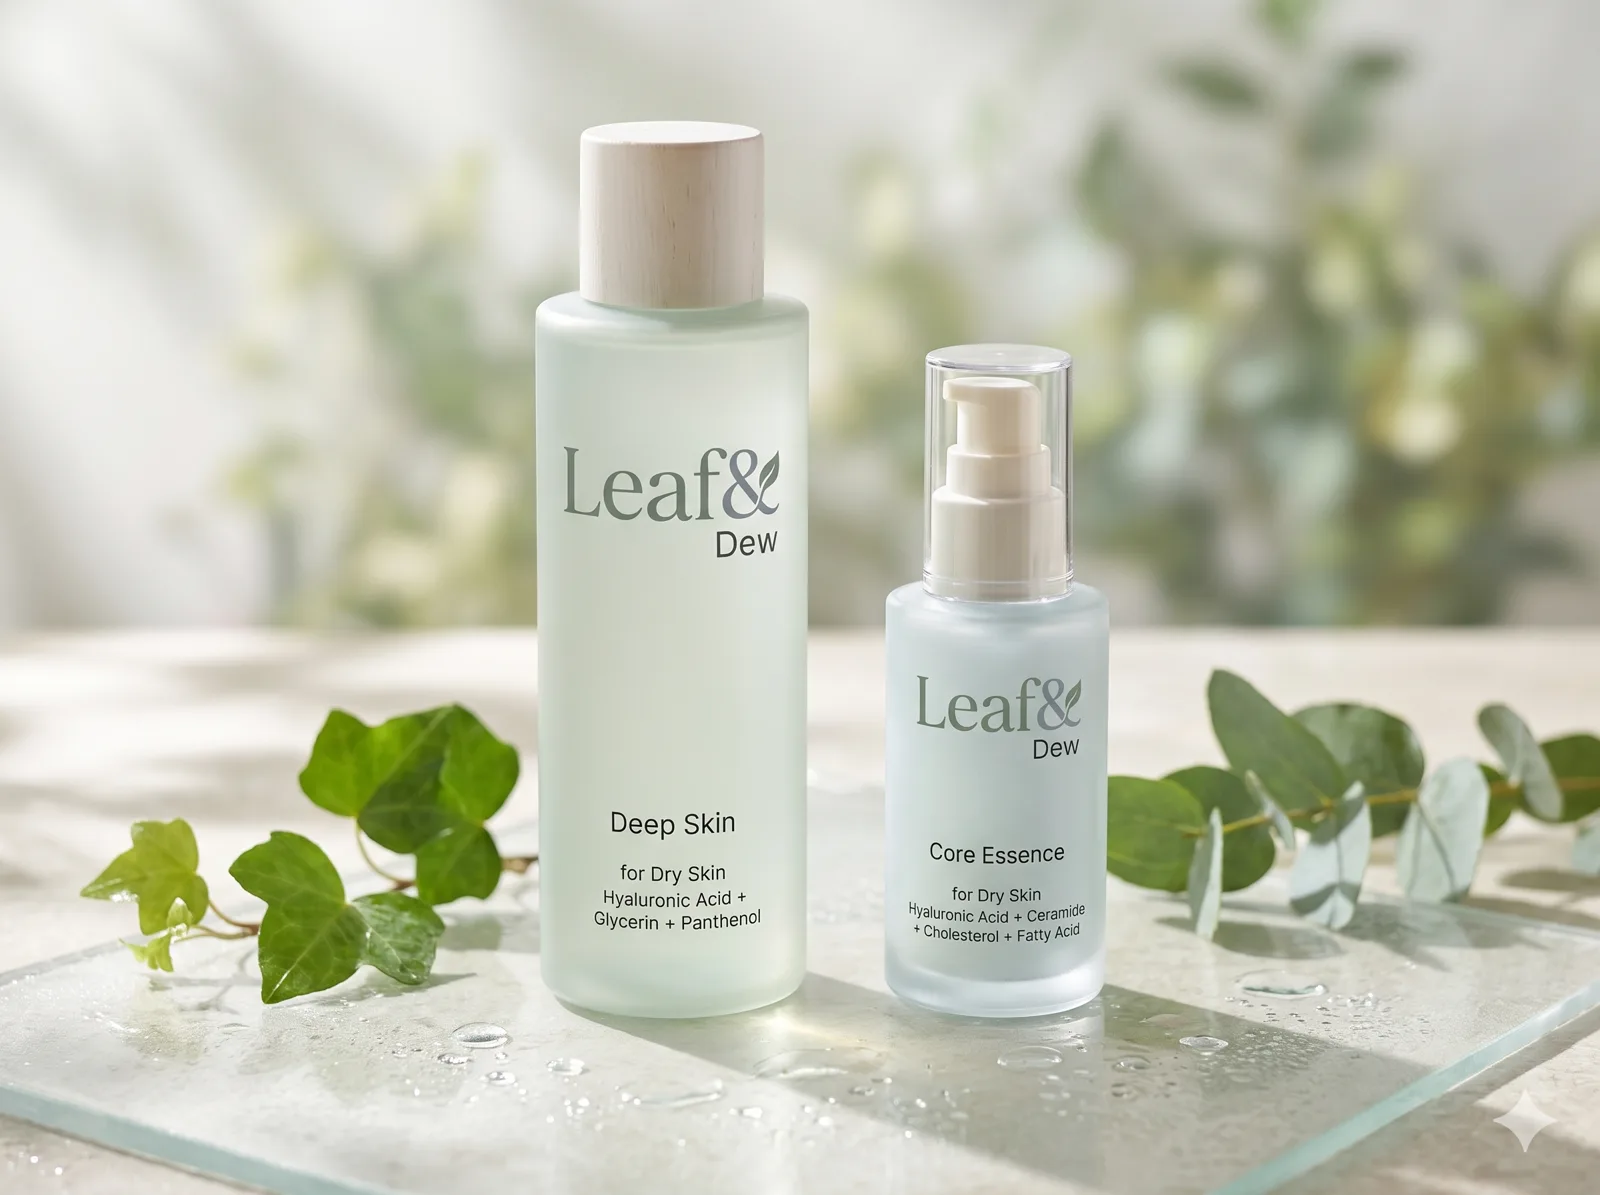
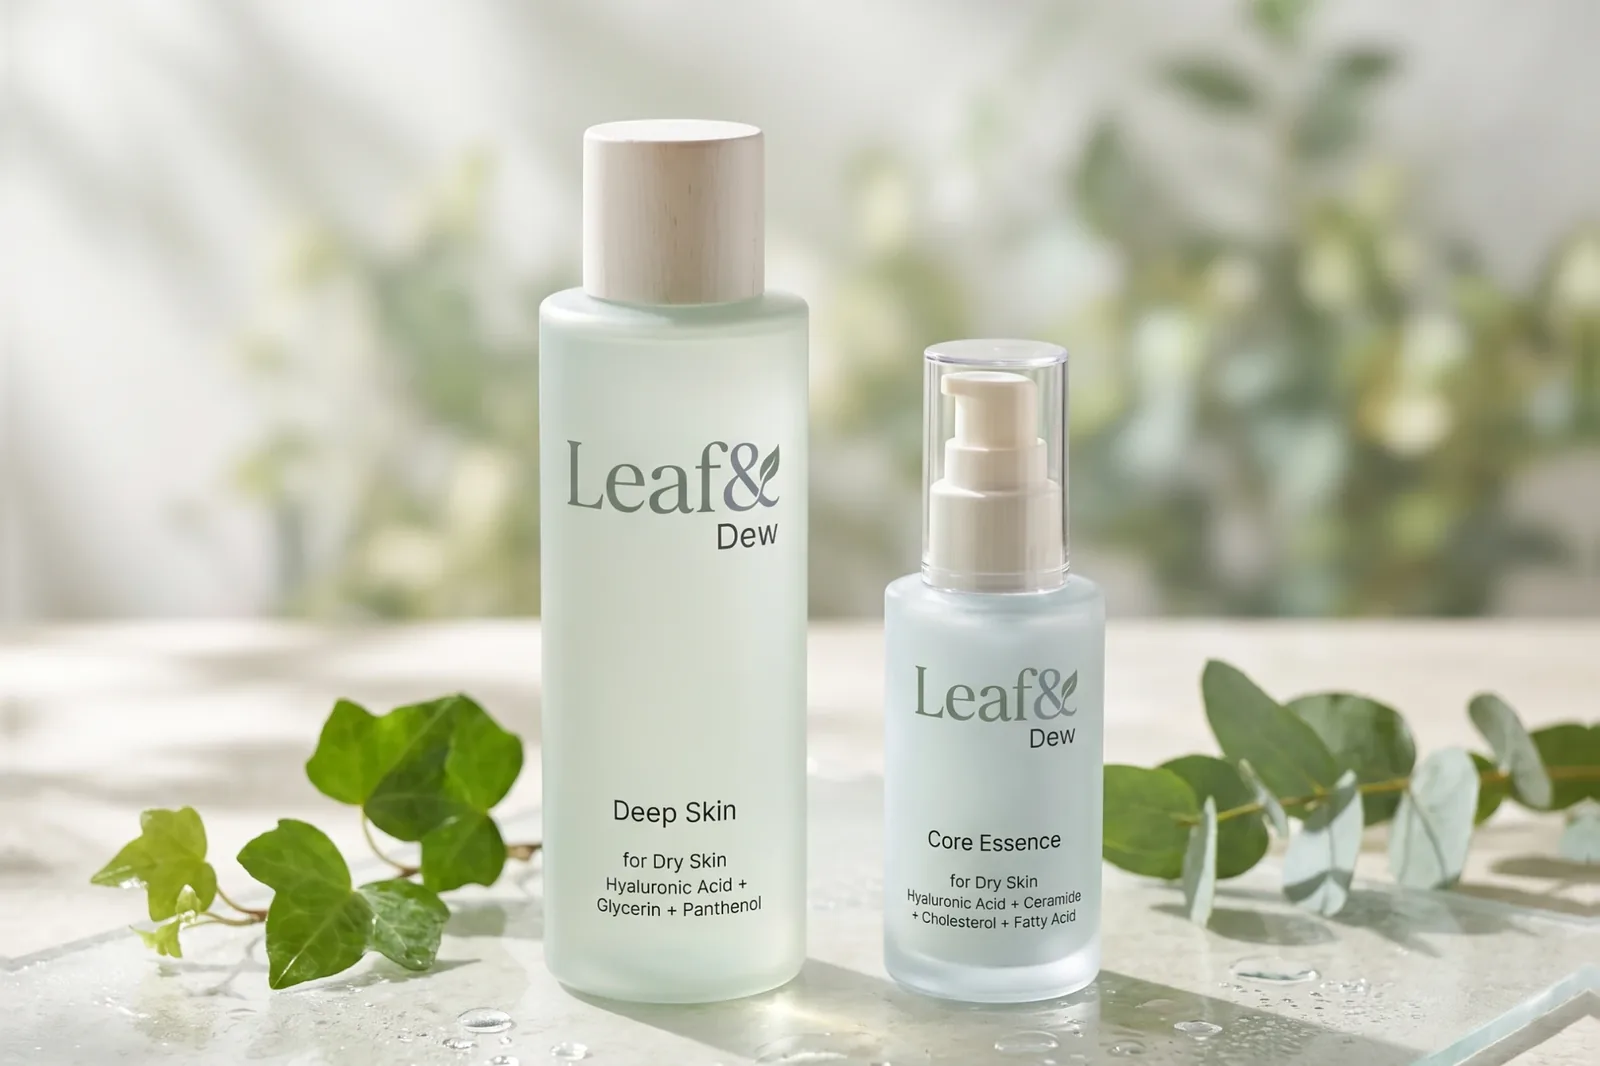
feat(survey): 「購入する」에서 여는 Qoo10 상세페이지 (Deep Skin · Core Essence)
- /survey/shop/[productId]: Qoo10 상품 페이지 모양 (대표 이미지 · 가격 · 수량 · 카트/구매 버튼 · 상세 · 상품정보)
- 상세 본문은 콘텐츠 제작 보고서의 12장 흐름을 따름. 02 사회적 증거는 근거가 없어 넣지 않음
- 문구는 약기법 기준 자료로 대조: 保湿成分 표기, 판테놀 제외, 「角質層まで※」 주석, 리뷰는 사용감만
- 결과 화면 「購入する」 → 해당 제품 상세페이지로 이동
- 건성 세트 사진을 생성 도구 표시 없는 새 사진으로 교체 (같은 파일 이름)

Claude-Session: https://claude.ai/code/session_01EXofnZZmWQuEaLm9fkZ5Ts

diff --git a/apps/web/app/(public)/survey/shop/[productId]/page.tsx b/apps/web/app/(public)/survey/shop/[productId]/page.tsx
@@ -1,0 +1,202 @@
+import { CalendarCheck, Droplets, Hand, Wind } from "lucide-react";
+import Image from "next/image";
+import Link from "next/link";
+import { notFound } from "next/navigation";
+import { getProducts } from "@/lib/data";
+import { ownProductName } from "@/lib/own-products";
+import { CAUTION, SHOP_CONTENT, SHOP_PRODUCT_IDS, type ShopProductId } from "../content";
+import { BuyBox, Gallery } from "./shop-parts";
+
+// Qoo10 상세페이지 모양 (설문 결과 「購入する」 → 여기). 실제 구매 · 결제는 하지 않는다
+const COPY = {
+  back: "← 診断結果に戻る",
+  shop: "Leaf& 公式ショップ",
+  tabs: { detail: "商品詳細", info: "商品情報" },
+  routineTitle: "洗顔後の2ステップで、うるおいケア",
+  ingredientNote: "※保湿成分",
+  pointNote: "※浸透：角質層まで",
+  reviewTitle: "国内でご愛用いただいている方の声",
+  lineupTitle: "ラインナップ",
+  infoTitle: "商品情報",
+  infoNote: "内容量・全成分・使用上の注意・製造販売元は商品情報欄をご確認ください。",
+  imageNote: "※画像はイメージです",
+  info: { volume: "内容量", kind: "種類", ingredients: "全成分", caution: "使用上の注意", maker: "製造販売元", origin: "原産国" },
+};
+
+const ICONS = { droplets: Droplets, wind: Wind, calendar: CalendarCheck, hand: Hand };
+
+export function generateStaticParams() {
+  return SHOP_PRODUCT_IDS.map((productId) => ({ productId }));
+}
+
+function isShopProduct(id: string): id is ShopProductId {
+  return (SHOP_PRODUCT_IDS as readonly string[]).includes(id);
+}
+
+export default async function ShopProductPage({ params }: { params: Promise<{ productId: string }> }) {
+  const { productId } = await params;
+  if (!isShopProduct(productId)) notFound();
+  const content = SHOP_CONTENT[productId];
+  const name = ownProductName(productId);
+  const product = (await getProducts({ kind: "own" })).find((p) => p.name === name);
+  if (!product || product.price_jpy === null) notFound();
+
+  return (
+    <div className="-mx-5 -my-8 bg-white text-neutral-900">
+      <header className="flex items-center gap-3 bg-[#e8323c] px-4 py-2.5 text-white">
+        <span className="text-xl font-extrabold tracking-tight">Qoo10</span>
+        <span className="truncate rounded bg-white/90 px-3 py-1 text-xs text-neutral-500 sm:w-80">韓国 化粧水</span>
+      </header>
+
+      <div className="mx-auto max-w-5xl px-4 py-4">
+        <Link href="/survey/result" className="text-sm text-neutral-500 underline-offset-4 hover:underline">
+          {COPY.back}
+        </Link>
+
+        <section className="mt-3 grid gap-6 md:grid-cols-2">
+          <Gallery images={content.gallery} />
+          <div className="space-y-4">
+            <p className="text-sm text-[#e8323c]">{COPY.shop}</p>
+            <h1 className="text-lg font-semibold leading-snug">
+              {content.title} {product.volume_ml}mL
+            </h1>
+            <BuyBox price={product.price_jpy} />
+          </div>
+        </section>
+
+        <nav className="sticky top-0 z-10 mt-8 flex border-b bg-white text-sm">
+          <a href="#detail" className="flex-1 border-b-2 border-[#e8323c] py-3 text-center font-semibold">
+            {COPY.tabs.detail}
+          </a>
+          <a href="#info" className="flex-1 py-3 text-center text-neutral-500">
+            {COPY.tabs.info}
+          </a>
+        </nav>
+
+        {/* 상세페이지 본문: 폭 860px (콘텐츠 제작 보고서 촬영 가이드) */}
+        <article id="detail" className="mx-auto max-w-[860px] divide-y">
+          <Image src={content.hook.src} alt={content.hook.alt} width={1200} height={895} className="h-auto w-full" />
+
+          <section className="bg-neutral-50 px-6 py-14 text-center">
+            {content.worry.map((line) => (
+              <p key={line} className="text-xl font-semibold leading-relaxed md:text-2xl">
+                {line}
+              </p>
+            ))}
+          </section>
+
+          <section className="px-6 py-14 text-center">
+            <p className="text-xl font-semibold">{COPY.routineTitle}</p>
+            <div className="mt-6 flex items-center justify-center gap-3 text-sm md:gap-6">
+              {(["deep-skin", "core-essence"] as const).map((id, i) => (
+                <div key={id} className="flex items-center gap-3 md:gap-6">
+                  {i > 0 && <span className="text-2xl text-neutral-400">→</span>}
+                  <div className={`rounded-xl border px-4 py-5 ${id === productId ? "border-[#e8323c]" : ""}`}>
+                    <p className="text-xs font-bold text-[#e8323c]">STEP{i + 1}</p>
+                    <p className="mt-1 font-semibold">{ownProductName(id)}</p>
+                    <p className="text-xs text-neutral-500">{SHOP_CONTENT[id].kind}</p>
+                  </div>
+                </div>
+              ))}
+            </div>
+          </section>
+
+          <section className="pb-10">
+            <Image src={content.gallery[0].src} alt={content.gallery[0].alt} width={1600} height={1066} className="h-auto w-full" />
+            <p className="mt-6 text-center text-2xl font-semibold">{name}</p>
+          </section>
+
+          <section className="bg-[#eef5f0] px-6 py-14">
+            <ol className="grid gap-6 sm:grid-cols-3">
+              {content.points.map((p, i) => {
+                const Icon = ICONS[p.icon];
+                return (
+                  <li key={p.text} className="flex flex-col items-center gap-3 text-center">
+                    <span className="flex size-20 items-center justify-center rounded-full bg-white shadow-sm">
+                      <Icon className="size-9 text-[#4f7d63]" aria-hidden />
+                    </span>
+                    <span className="text-xs font-bold text-[#4f7d63]">POINT {i + 1}</span>
+                    <span className="font-semibold">{p.text}</span>
+                  </li>
+                );
+              })}
+            </ol>
+            <p className="mt-6 text-center text-xs text-neutral-500">{COPY.pointNote}</p>
+          </section>
+
+          <section className="px-6 py-14">
+            <ul className="grid grid-cols-2 gap-3">
+              {content.ingredients.map((ing) => (
+                <li key={ing} className="flex aspect-[2/1] items-center justify-center rounded-xl bg-[#f4f8fb] text-lg font-semibold">
+                  {ing}※
+                </li>
+              ))}
+            </ul>
+            <p className="mt-3 text-right text-xs text-neutral-500">{COPY.ingredientNote}</p>
+          </section>
+
+          <section className="bg-gradient-to-b from-[#e6f1f6] to-white px-6 py-16 text-center">
+            {content.texture.map((line) => (
+              <p key={line} className="text-xl font-semibold leading-relaxed md:text-2xl">
+                {line}
+              </p>
+            ))}
+          </section>
+
+          <section className="px-6 py-14 text-center">
+            <p className="text-lg leading-relaxed">{content.howTo}</p>
+          </section>
+
+          <section className="bg-neutral-50 px-6 py-14">
+            <p className="mb-6 text-center text-sm text-neutral-500">{COPY.reviewTitle}</p>
+            <ul className="space-y-4">
+              {content.reviews.map((r, i) => (
+                <li key={r} className={`flex ${i % 2 ? "justify-end" : ""}`}>
+                  <span className="rounded-2xl bg-white px-5 py-3 shadow-sm">「{r}」</span>
+                </li>
+              ))}
+            </ul>
+          </section>
+
+          <section className="px-6 py-14">
+            <p className="mb-6 text-center text-lg font-semibold">{COPY.lineupTitle}</p>
+            <ul className="grid grid-cols-2 gap-4">
+              {(["deep-skin", "core-essence"] as const).map((id) => (
+                <li key={id}>
+                  <Link
+                    href={`/survey/shop/${id}`}
+                    className={`block rounded-xl border p-4 text-center hover:bg-neutral-50 ${id === productId ? "border-[#e8323c]" : ""}`}
+                  >
+                    <p className="font-semibold">{ownProductName(id)}</p>
+                    <p className="text-sm text-neutral-500">（{SHOP_CONTENT[id].kind}）</p>
+                  </Link>
+                </li>
+              ))}
+            </ul>
+            <p className="mt-8 text-center text-sm text-neutral-500">{COPY.infoNote}</p>
+          </section>
+        </article>
+
+        <section id="info" className="mx-auto mt-10 max-w-[860px] scroll-mt-14">
+          <h2 className="mb-3 font-semibold">{COPY.infoTitle}</h2>
+          <dl className="divide-y border-y text-sm">
+            {[
+              [COPY.info.volume, `${product.volume_ml}mL`],
+              [COPY.info.kind, content.kind],
+              [COPY.info.ingredients, content.fullIngredients],
+              [COPY.info.caution, CAUTION],
+              [COPY.info.maker, "Leaf&"],
+              [COPY.info.origin, "韓国"],
+            ].map(([k, v]) => (
+              <div key={k} className="grid grid-cols-[7rem_1fr] gap-3 py-3">
+                <dt className="text-neutral-500">{k}</dt>
+                <dd className="leading-relaxed">{v}</dd>
+              </div>
+            ))}
+          </dl>
+          <p className="mt-4 text-xs text-neutral-500">{COPY.imageNote}</p>
+        </section>
+      </div>
+    </div>
+  );
+}

diff --git a/apps/web/app/(public)/survey/shop/content.ts b/apps/web/app/(public)/survey/shop/content.ts
@@ -1,0 +1,80 @@
+import { ownProductImage, ownProductName, type OwnProductId } from "@/lib/own-products";
+
+// Qoo10 상세페이지(설문 결과의 「購入する」로 들어옴). 판매 중인 건성 라인 2종만 있다.
+// 구성은 콘텐츠 제작 보고서(상세페이지 12장)를 따르고, 문구는 약기법 기준 자료(knowledge/yakkiho)와 대조했다.
+//  - 02 사회적 증거(순위 · 수상 · 후기 수)는 근거 자료가 없어 넣지 않는다 (F8.2, E22)
+//  - 성분은 배합 목적(保湿成分)을 붙이고 판테놀은 뺀다 (E24, 팀 결정 2026-10-23)
+//  - 「角質層まで」는 침투 범위를 각질층으로 밝힌 표현만 쓴다 (E3)
+//  - 리뷰 말풍선은 사용감 표현만 (E20). 실제 판매 때는 실제 리뷰로 바꿔야 한다
+// 가격 · 용량은 다른 탭과 같게 lib/mock/products.ts 값을 쓰고, 전성분은 팀 CSV(가상 목록)에서 판테놀을 뺀 것이다
+
+export const SHOP_PRODUCT_IDS = ["deep-skin", "core-essence"] as const satisfies readonly OwnProductId[];
+export type ShopProductId = (typeof SHOP_PRODUCT_IDS)[number];
+
+export type ShopContent = {
+  kind: string;
+  /** Qoo10 상품명 줄 */
+  title: string;
+  gallery: { src: string; alt: string }[];
+  hook: { src: string; alt: string };
+  worry: string[];
+  points: { text: string; icon: "droplets" | "wind" | "calendar" | "hand" }[];
+  ingredients: string[];
+  texture: string[];
+  howTo: string;
+  reviews: string[];
+  fullIngredients: string;
+};
+
+const DRY_POSTER = {
+  src: "/products/posters/leaf-dew-dry-poster.webp",
+  alt: "乾燥しがちな肌に、たっぷりのうるおいを。化粧水とエッセンスで、肌の乾燥を防ぐ毎日のケア。",
+};
+
+export const SHOP_CONTENT: Record<ShopProductId, ShopContent> = {
+  "deep-skin": {
+    kind: "化粧水",
+    title: `${ownProductName("deep-skin")} 化粧水 保湿成分ヒアルロン酸Na配合`,
+    gallery: [
+      { src: ownProductImage("deep-skin"), alt: `${ownProductName("deep-skin")}と${ownProductName("core-essence")}` },
+      DRY_POSTER,
+    ],
+    hook: DRY_POSTER,
+    worry: ["洗顔後、すぐにつっぱる。", "乾燥が気になる季節、こんなお悩みありませんか？"],
+    points: [
+      { text: "角質層まで※うるおう", icon: "droplets" },
+      { text: "べたつかない", icon: "wind" },
+      { text: "毎日使いやすい", icon: "calendar" },
+    ],
+    ingredients: ["ヒアルロン酸Na", "グリセリン"],
+    texture: ["さっぱり、すーっとなじむ。", "べたつかないのに、しっとり。"],
+    howTo: "洗顔後、適量を手に取り顔全体になじませてください。",
+    reviews: ["しっとりするのにべたつかない", "香りが控えめで毎日使いやすい", "メイク前にもなじみやすい"],
+    fullIngredients:
+      "水、BG、グリセリン、プロパンジオール、ヒアルロン酸Na、ベタイン、アラントイン、ヒドロキシエチルセルロース、クエン酸、クエン酸Na、EDTA-2Na、エチルヘキシルグリセリン、フェノキシエタノール",
+  },
+  "core-essence": {
+    kind: "美容液",
+    title: `${ownProductName("core-essence")} 美容液 保湿成分セラミドNP配合`,
+    gallery: [
+      { src: ownProductImage("core-essence"), alt: `${ownProductName("deep-skin")}と${ownProductName("core-essence")}` },
+      DRY_POSTER,
+    ],
+    hook: DRY_POSTER,
+    worry: ["化粧水だけでは、乾燥が気になる。", "うるおいを守るひと手間、足りていますか？"],
+    points: [
+      { text: "角質層まで※うるおう", icon: "droplets" },
+      { text: "なめらかになじむ", icon: "hand" },
+      { text: "化粧水のあとに1プッシュ", icon: "calendar" },
+    ],
+    ingredients: ["ヒアルロン酸Na", "セラミドNP", "コレステロール", "ステアリン酸"],
+    texture: ["みずみずしいのに、しっとり。", "肌になめらかになじむ。"],
+    howTo: "化粧水のあと、1〜2プッシュを手に取り顔全体になじませてください。",
+    reviews: ["しっとりするのに重くない", "化粧水のあとに使いやすい", "ポンプで出しやすい"],
+    fullIngredients:
+      "水、BG、グリセリン、プロパンジオール、スクワラン、トリ（カプリル酸／カプリン酸）グリセリル、ヒアルロン酸Na、セラミドNP、コレステロール、ステアリン酸、水添レシチン、カルボマー、アルギニン、EDTA-2Na、エチルヘキシルグリセリン、フェノキシエタノール",
+  },
+};
+
+export const CAUTION =
+  "お肌に異常が生じていないかよく注意して使用してください。使用中または使用後に赤み、はれ、かゆみ、刺激等の異常があらわれた場合は使用を中止し、皮膚科専門医等にご相談ください。";

diff --git a/apps/web/app/(public)/survey/shop/[productId]/shop-parts.tsx b/apps/web/app/(public)/survey/shop/[productId]/shop-parts.tsx
@@ -1,0 +1,72 @@
+"use client";
+
+import Image from "next/image";
+import { useState } from "react";
+import { Button } from "@/components/ui/button";
+import { cn } from "@/lib/utils";
+
+const COPY = {
+  taxIn: "（税込）",
+  quantity: "数量",
+  decrease: "数量を減らす",
+  increase: "数量を増やす",
+  cart: "カートに入れる",
+  buyNow: "今すぐ購入",
+};
+
+/** 대표 이미지: 큰 사진 1장 + 아래 썸네일 (정사각형) */
+export function Gallery({ images }: { images: { src: string; alt: string }[] }) {
+  const [index, setIndex] = useState(0);
+  const current = images[index];
+  return (
+    <div className="space-y-2">
+      <div className="relative aspect-square overflow-hidden rounded-lg border bg-white">
+        <Image src={current.src} alt={current.alt} fill sizes="(min-width: 768px) 50vw, 100vw" priority className="object-contain" />
+      </div>
+      <div className="flex gap-2">
+        {images.map((img, i) => (
+          <button
+            key={img.src}
+            type="button"
+            onClick={() => setIndex(i)}
+            aria-label={img.alt}
+            aria-pressed={i === index}
+            className={cn("relative size-16 overflow-hidden rounded border", i === index && "border-2 border-[#e8323c]")}
+          >
+            <Image src={img.src} alt="" fill sizes="64px" className="object-cover" />
+          </button>
+        ))}
+      </div>
+    </div>
+  );
+}
+
+/** 가격 · 수량 · 버튼. 시연용이라 버튼은 아무 데도 보내지 않는다 */
+export function BuyBox({ price }: { price: number }) {
+  const [qty, setQty] = useState(1);
+  return (
+    <div className="space-y-4">
+      <p className="text-2xl font-bold">
+        {(price * qty).toLocaleString("ja-JP")}円<span className="ml-1 text-sm font-normal text-neutral-500">{COPY.taxIn}</span>
+      </p>
+      <div className="flex items-center gap-3 text-sm">
+        <span className="text-neutral-500">{COPY.quantity}</span>
+        <div className="flex items-center rounded border">
+          <button type="button" className="size-9" aria-label={COPY.decrease} onClick={() => setQty((q) => Math.max(1, q - 1))}>
+            −
+          </button>
+          <span className="w-10 text-center tabular-nums">{qty}</span>
+          <button type="button" className="size-9" aria-label={COPY.increase} onClick={() => setQty((q) => Math.min(10, q + 1))}>
+            ＋
+          </button>
+        </div>
+      </div>
+      <div className="grid grid-cols-2 gap-2">
+        <Button variant="outline" className="h-12 border-[#e8323c] text-[#e8323c]">
+          {COPY.cart}
+        </Button>
+        <Button className="h-12 bg-[#e8323c] text-white hover:bg-[#d02a33]">{COPY.buyNow}</Button>
+      </div>
+    </div>
+  );
+}

diff --git a/apps/web/app/(public)/survey/result/survey-result.tsx b/apps/web/app/(public)/survey/result/survey-result.tsx
@@ -56,6 +56,9 @@ const POSTERS = {
 } as const;
 const POSTER_FOR: Record<SkinType, keyof typeof POSTERS> = { dry: "dry", inner_dry: "dry", normal: "dry", combo: "combo", oily: "oily" };
 
+// 판매 중 라인의 「購入する」가 여는 Qoo10 상세페이지 (/survey/shop/[제품])
+const SHOP_PATH: Record<string, string> = { "moisture-skin": "/survey/shop/deep-skin", "moisture-essence": "/survey/shop/core-essence" };
+
 // MBTI처럼 반대되는 두 성향을 한 막대에 놓고 합 100점으로 나눈다 (팀 결정 2026-10-23)
 type Pole = { code: string; label: string };
 type Axis = { title: string; left: Pole; right: Pole; leftPoints: (sc: Scores, max: Scores) => number };
@@ -278,13 +281,14 @@ export function SurveyResult({ questions, lines }: { questions: SurveyQuestion[]
                       </p>
                     </div>
                   </div>
-                  {line.status === "on_sale" && (
-                    <Button
+                  {line.status === "on_sale" && SHOP_PATH[line.id] && (
+                    <Link
+                      href={SHOP_PATH[line.id]}
                       onClick={() => trackReco({ event: "buy_click", lineId: line.id, skinType, under18 })}
-                      className="h-11 w-full"
+                      className={cn(buttonVariants(), "h-11 w-full")}
                     >
                       {COPY.buy}
-                    </Button>
+                    </Link>
                   )}
                   {line.status === "in_development" && done[line.id] && (
                     <p className="rounded-md bg-muted px-3 py-2 text-sm">
